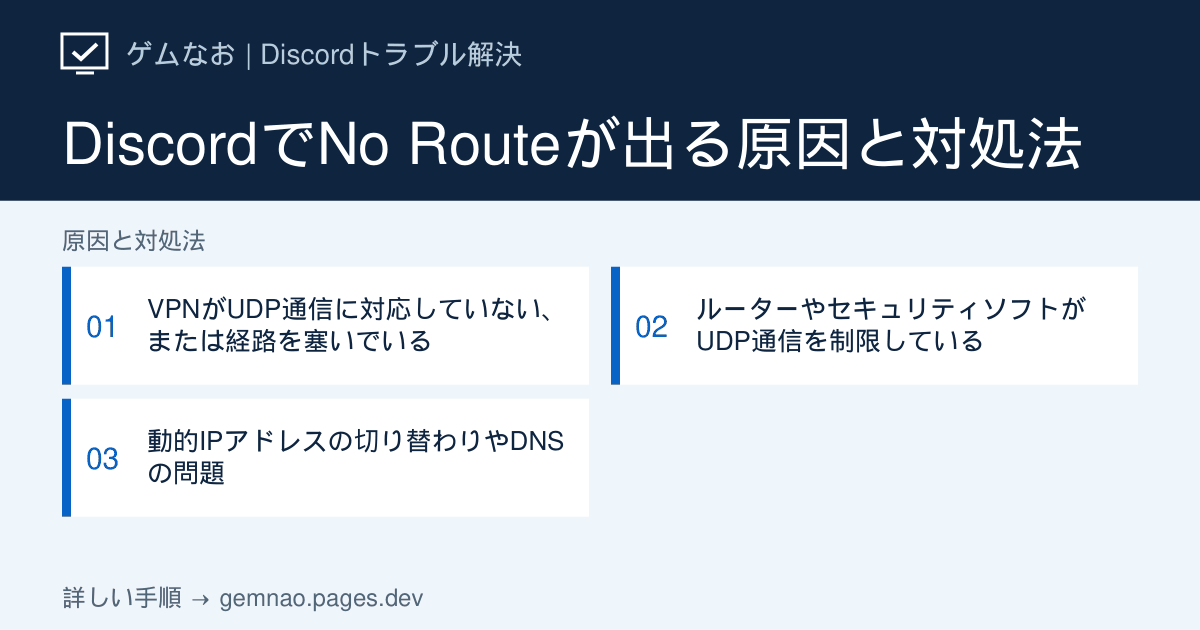
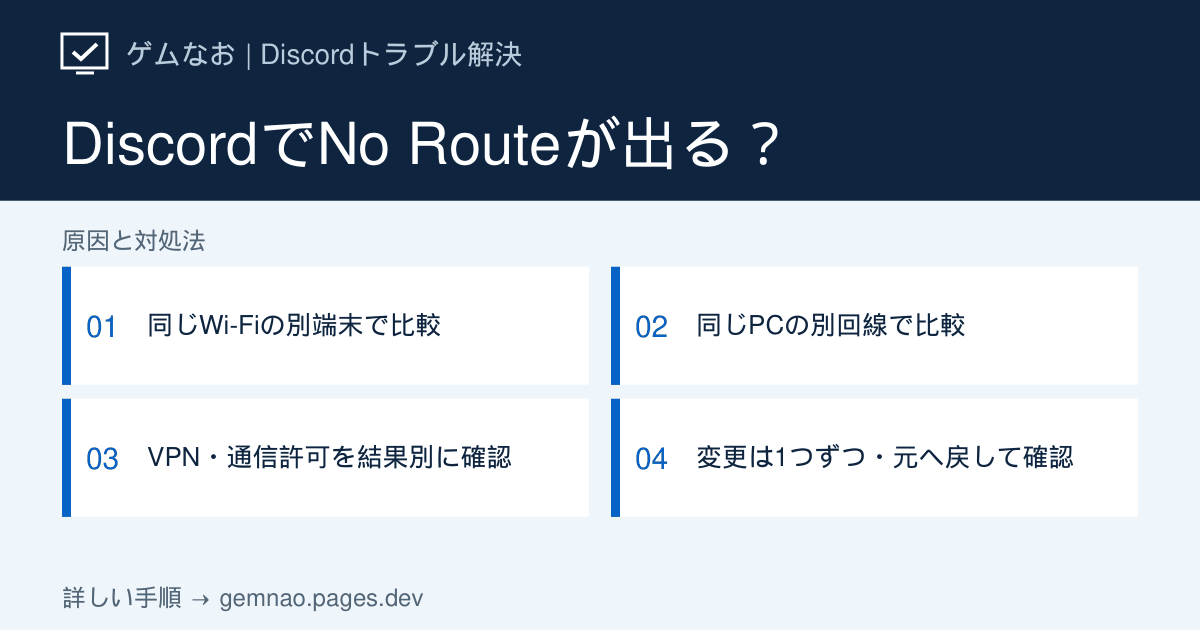
Rewrite No Route guide with controlled network comparisons and result-based actions

diff --git a/lib/discord-articles.ts b/lib/discord-articles.ts
@@ -77,10 +77,6 @@ const voiceVideoGuide = support(
   '音声とビデオのトラブルシューティングガイド（英語）',
 );
 const micTesting = support('360020641332-Mic-Testing', 'マイクテスト（英語）');
-const errorCodesGuide = support(
-  '30952914470807-Discord-Audio-and-Video-Error-Codes-Troubleshooting-Guide',
-  '音声・ビデオのエラーコード トラブルシューティングガイド（英語）',
-);
 const amdRtcGuide = support(
   '4978019693463-AMD-GPU-CPU-RTC-CONNECTING-Troubleshooting',
   'AMD GPU/CPU環境でのRTC CONNECTINGトラブルシューティング（英語）',
@@ -509,71 +505,99 @@ const existingDiscordArticles: DiscordArticle[] = [
   {
     slug: 'no-route',
     category: 'connection',
-    title: 'DiscordでNo Routeが出る原因と対処法',
+    title: 'DiscordでNo Routeが出る時の直し方｜回線・PC・通話先で切り分け',
     shortTitle: 'No Routeが出る',
-    seoTitle: 'DiscordでNo Routeが出る原因と対処法',
-    metaDescription:
-      'ボイスチャンネル接続時に「No Route」と表示されて接続できない時の対処法です。VPNやルーターのUDP通信の制限を中心に切り分けます。',
-    symptom:
-      'ボイスチャンネルに参加しようとすると「No Route」と表示され、通話に接続できない場合の手順です。',
-    target: 'Windows版 Discordデスクトップアプリ',
-    conclusion:
-      'VPNの無効化、ルーターの再起動、QoS設定の見直しの順に、通信経路を妨げている要因を1つずつ取り除きます。',
+    seoTitle: 'DiscordのNo Routeの原因と対処法【回線・VPN・PC別】',
+    metaDescription: 'DiscordのNo Routeで通話につながらない時の判定表。同じWi-Fiの別端末、同じPCの別回線、別チャンネルを比較し、VPN・通信許可・QoS・音声リージョンを確認。変更を戻す方法と相談先も解説します。',
+    symptom: 'ボイスチャンネルやDM通話へ参加すると「No Route」と表示され、音声通話が始まらない場合の手順です。',
+    target: 'Windows版Discordデスクトップアプリ。ブラウザ版・スマートフォンを比較に使用',
+    conclusion: 'No Routeは音声サーバーへの接続に失敗している時の表示です。まず障害情報と別チャンネルを確認し、同じWi-Fiの別端末・同じPCの別回線で比較します。回線だけ変えると直るなら回線やVPN、PCだけ失敗するならPCの通信許可、特定チャンネルだけなら通話先を優先して調べます。',
     quickFixes: [
-      'ルーターとPCを再起動する',
-      'VPNを使用している場合は無効にする',
-      'ユーザー設定の「音声・ビデオ」でQoSの高packet priorityをオフにする',
+      'No Routeの表示と時刻を控え、障害情報を確認して別の通話先を試す',
+      '同じWi-Fiの別端末と、同じPCの別回線を可能な範囲で比較する',
+      '比較結果に合う手順だけ進め、設定を1つ変えるごとに同じ通話で確認する',
+    ],
+    diagnosisTitle: '回線・PC・通話先のどこを調べる？ No Routeの判定表',
+    diagnosisIntro: '成功の基準はエラーが消えるだけでなく、同じ相手と短い会話ができることです。端末と回線を同時に変えると、どちらの違いで直ったか分からなくなります。',
+    showStatusCheck: false,
+    diagnosis: [
+      { symptom: '同じWi-FiのPCとスマホが失敗し、別回線なら成功', check: '回線・ルーター・VPNなどの通信経路を優先して確認', causeIndex: 2 },
+      { symptom: '同じWi-Fiのスマホは成功し、PCだけ失敗', check: 'PCのVPN・通信許可と、アプリ／ブラウザ版の違いを確認', causeIndex: 3 },
+      { symptom: '同じPCでVPNを切った時だけ成功', check: 'VPNのUDP対応と接続設定を提供元に確認', causeIndex: 2 },
+      { symptom: '特定チャンネルだけ失敗し、DM・別チャンネルは成功', check: '管理者と音声リージョンを比較。元の値を控える', causeIndex: 4 },
+      { symptom: '複数人が同時に失敗する／別回線でも接続できない', check: '障害情報と他の通話先を確認し、比較結果をサポートへ', causeIndex: 1 },
+      { symptom: 'ブラウザ版は通話できるがアプリだけNo Route', check: 'アプリの更新・音声設定を確認。再インストールは後段', causeIndex: 3 },
     ],
     causes: [
       {
-        title: 'VPNがUDP通信に対応していない、または経路を塞いでいる',
-        description:
-          'DiscordのボイスチャンネルはUDP通信を使うため、VPNの設定によっては経路が確立できません。',
+        title: '障害確認と比較で、失敗する範囲を決める',
+        description: 'Webサイトや文字チャットが開いても、音声通話の通信まで正常とは限りません。まず同じ条件で結果を比べます。',
         actions: [
-          'VPNを一時的に無効にしてから、ボイスチャンネルへの接続を試す',
-          '無効化で直る場合は、VPN側でUDP通信を許可する設定があるか確認する',
-          '職場・学校支給のVPNの場合は、ネットワーク管理者に相談する',
+          '表示されたNo Routeと発生時刻を控え、Discord Statusと回線事業者の障害情報を確認する。障害中は復旧後に同じ通話を試す',
+          '通話を一度退出して入り直す。続く場合は、同じPC・同じ回線で別チャンネルまたは知人とのDM通話へ接続する。特定の通話先だけ失敗するならSTEP 4へ進む',
+          '可能なら同じWi-Fiのスマートフォンでも同じ通話先を試す。スマホがモバイル回線へ切り替わっていないか確認し、比較時の接続先を記録する',
+          '次に同じPCをテザリングなど別回線へ接続して比較する。短時間の通話だけにし、通信量に注意して確認後は元の回線へ戻す',
+          '記録例は「PC・自宅Wi-Fi×／スマホ・自宅Wi-Fi×／PC・テザリング○」。この例なら自宅側の経路を先に調べるが、ルーター故障やUDP遮断とまでは確定しない',
+        ],
+        note: '比較用の端末や回線がなければ無理に用意する必要はありません。「未確認」と残し、別チャンネル・同じPCのブラウザ版など、できる比較から進めます。',
+      },
+      {
+        title: '特定回線だけ失敗する場合はVPNとルーターを確認する',
+        description: 'Discord公式は、VPNでの音声接続にはUDP対応が必要と案内しています。VPNの有無と、元の回線へ戻した結果を分けて確認します。',
+        actions: [
+          '個人で管理するVPNを使っている場合は、一時的に切断して同じ通話へ接続する。直るならVPN提供元のUDP対応・接続方式を確認する。会社や学校指定のVPNは管理者へ相談する',
+          'VPNなしでも自宅回線だけ失敗するなら、ほかの利用者が通話や作業をしていないか確認してから、メーカーの案内に沿ってモデム・ルーターを再起動する',
+          '回線が復旧したらPCも再起動し、同じアカウント・同じチャンネルで短い会話ができるか確認する。ルーターの初期化ボタンは使わない',
+          '改善しない場合は、回線事業者やルーターのサポートへ「同一Wi-Fiの複数端末で失敗・別回線で成功」などの比較結果と時刻を伝える。特定のポート番号を推測して開放しない',
+        ],
+        note: '別回線で成功しても、自宅ルーターの故障とは限りません。回線障害、経路、VPN、通信制限などを確認するための材料として使います。',
+      },
+      {
+        title: 'PCだけ失敗する場合は、アプリ・通信許可・QoSを比較する',
+        description: '同じWi-Fiの別端末が通話できる場合は、PC側に確認範囲を絞ります。保護機能をまとめて無効化する前に、記録とアプリごとの差を調べます。',
+        actions: [
+          'Discordを通知領域から完全終了し、開き直して更新を反映する。必要ならPCを再起動して同じ通話へ接続する',
+          'アプリの通話を終了してから、同じPCでdiscord.com/appを開く。同じ通話先へ入り、必要なマイク許可を与え、実際に会話できるか比較する',
+          'アプリとブラウザの両方が失敗する場合は、PCのVPN利用状況とセキュリティソフトの通信ブロック履歴を確認する。発生時刻とDiscordの対象ファイルが一致する記録があるかを見る',
+          'Windowsの通信許可を確認する場合は「Windows セキュリティ」→「ファイアウォールとネットワーク保護」→「ファイアウォールによるアプリケーションの許可」を開く。Discordの登録と利用中のネットワーク種別を確認し、会社・学校のPCでは管理者へ確認を依頼する',
+          'アプリ内の歯車→「音声・ビデオ」でQoSの高パケット優先度がオンなら、元の状態を控えてオフにし、同じ通話で比較する。項目がなければ飛ばす。改善しなければ元へ戻す',
+          'ブラウザ版だけ成功し続ける場合は「RTC接続中から進まない」のアプリ向け手順へ進む。再インストールを行う場合は、その前にメール・パスワード・二要素認証を利用できることを確認する',
+        ],
+        note: '通信許可の一覧にあることだけで、すべての通信が許可されているとは断定できません。ファイアウォール全体の停止や全ネットワークへの一括許可ではなく、必要な設定を管理者・提供元と確認してください。',
+      },
+      {
+        title: '特定チャンネルだけ失敗する場合は音声リージョンを比較する',
+        description: '通話先によって結果が変わる場合の確認です。参加者にも影響するため、管理者と変更内容を共有してから進めます。',
+        actions: [
+          '別チャンネルやDMでは成功することと、問題のチャンネルでは他の参加者も失敗するかを記録する',
+          '管理権限がある場合は、対象ボイスチャンネルを右クリック→「チャンネルの編集」→「概要」→リージョンオーバーライドを開く。現在の「自動」または地域名を控える',
+          '選べる別地域へ一時変更し、同じ参加者・同じ回線で入り直す。自分に権限がなければ管理者へ比較を依頼する',
+          '変化がなければ元の「自動」または地域へ戻す。改善した場合は、どの地域で成功したかを管理者と共有し、その後の設定を決める',
         ],
       },
       {
-        title: 'ルーターやセキュリティソフトがUDP通信を制限している',
-        description:
-          '家庭用ルーターやセキュリティソフトの設定によっては、Discordの通信が制限・遮断されることがあります。',
+        title: 'DNS変更やネットワーク初期化へ進む前に結果を整理する',
+        description: 'No Routeという表示だけではDNSが原因とは分かりません。通信設定をまとめて変更すると、比較した結果を追えなくなります。',
         actions: [
-          'ルーターとPCを両方再起動する',
-          'ユーザー設定の「音声・ビデオ」にある「Quality of Serviceの高packet priorityを有効にする」をオフにする',
-          'セキュリティソフトのファイアウォール設定でDiscordの通信が許可されているか確認する',
-          '公衆Wi-Fiやテザリングなど別のネットワークでも同じ症状が出るか確認する',
-        ],
-      },
-      {
-        title: '動的IPアドレスの切り替わりやDNSの問題',
-        description:
-          '回線のIPアドレスが不安定な場合や、DNSキャッシュが古い場合に経路が正しく解決できないことがあります。',
-        actions: [
-          'コマンドプロンプトを管理者として開く',
-          'ipconfig /flushdns と入力してDNSキャッシュを消去する',
-          'チャンネル管理権限がある場合だけ、チャンネルの編集→概要→リージョンオーバーライドで別地域を試す。権限がなければ管理者に依頼し、比較後に元へ戻す',
+          'Discordの通話だけ失敗するのか、Webサイトの名前解決や読み込みも失敗しているのかを分ける。Web閲覧まで不調なら、回線事業者の接続案内も確認する',
+          '音声接続だけのNo Routeに、DNSキャッシュ消去・DNSサーバー変更・ネットワーク初期化を一律の必須手順として適用しない',
+          '管理者や提供元の診断で変更が必要になった場合は、元の自動取得設定や指定値を控え、変更後に同じ通話を試す。結果が変わらなければ案内に従って元へ戻す',
+          'No Routeが消えても声が聞こえない場合は、接続ではなく音声設定を確認する。「相手の声が聞こえない」「マイクが反応しない」の関連記事へ進む',
         ],
       },
     ],
-    ifNotFixed:
-      'すべて試しても改善しない場合、契約している回線・ルーターの仕様でUDP通信が制限されている可能性があります。ルーターの詳細設定（ポート制限やファイアウォール機能）を確認するか、別のネットワーク環境で同じ症状が出るかを確認してください。あわせてDiscord Statusで障害情報がないか確認してください。',
+    ifNotFixed: '問い合わせ用に「発生時刻／PCアプリ・PCブラウザの結果／同じWi-Fiの別端末／同じPCの別回線／DMと別チャンネル／VPNの有無／変更した設定と元へ戻したか」をまとめます。同じ回線の複数端末だけ失敗するなら回線事業者・ネットワーク管理者、アプリだけ失敗するならDiscordサポートへ伝えます。公式の接続エラー記事にはPTB・Canaryでのログ取得案内もあります。必要な場合にその手順を使い、ログや画面は公開せず公式窓口へ提出してください。',
     faqs: [
-      {
-        question: 'No RouteとRTC接続中は同じ問題ですか？',
-        answer:
-          'どちらも接続確立の途中で止まる症状で、原因が重なることも多いです。No Routeは通信経路そのものが見つからない場合に表示され、VPNやルーターなどネットワーク側の要因が中心になります。',
-      },
-      {
-        question: 'スマートフォンのテザリングでは接続できます',
-        answer:
-          '自宅回線やルーター側にUDP通信を制限する設定がある可能性が高いです。ルーターのファイアウォールやQoS設定を見直してください。',
-      },
+      { question: 'No Routeならルーターが故障していますか？', answer: '表示だけでは故障とは判断できません。同じ回線の別端末、同じPCの別回線を比べ、回線と端末のどちらに確認を絞るかを決めます。' },
+      { question: '文字チャットは使えるのに通話だけできません', answer: '文字チャットが使えることと音声接続が成功することは別です。VPNのUDP対応やPCの通信許可を、比較結果に合わせて確認してください。' },
+      { question: 'DNSキャッシュを消せば必ず直りますか？', answer: 'No RouteだけではDNS原因と確定できず、必ず直る手順ではありません。先に端末・回線・通話先を比較し、DNS側の問題を疑う情報がある時に接続案内に沿って確認します。' },
+      { question: 'RTC接続中とNo Routeは違う原因ですか？', answer: 'Discord公式はいずれも音声接続に関するエラーとして扱っています。表示だけで原因を分けず、同じ端末・回線・通話先で比較します。RTC接続中の記事にはアプリ側の追加確認も掲載しています。' },
     ],
-    sources: [errorCodesGuide, discordStatus],
-    related: ['rtc-connecting', 'loading-stuck', 'mic-not-working'],
-    checkedAt: '2026-09-23',
+    sources: [support('115001310031-Voice-Connection-Errors', '音声接続エラー（英語）'), voiceVideoGuide, discordStatus],
+    related: ['rtc-connecting', 'call-disconnects', 'cant-hear-voice', 'mic-not-working'],
+    ogTitle: 'DiscordでNo Routeが出る？',
+    ogSteps: ['同じWi-Fiの別端末で比較', '同じPCの別回線で比較', 'VPN・通信許可を結果別に確認', '変更は1つずつ・元へ戻して確認'],
+    checkedAt: '2026-09-28',
     status: 'verified',
   },
   {

diff --git a/lib/og-image-manifest.ts b/lib/og-image-manifest.ts
@@ -20,7 +20,7 @@ export const ogImageManifest: Record<string, string> = {
   "/discord/login-error": "de4a0c87",
   "/discord/mic-not-working": "56b12974",
   "/discord/mic-volume-low": "148725ee",
-  "/discord/no-route": "7419f17d",
+  "/discord/no-route": "260d5615",
   "/discord/not-opening": "27fdd405",
   "/discord/notifications-not-working": "4ab41adc",
   "/discord/overlay-not-showing": "912a94f2",
